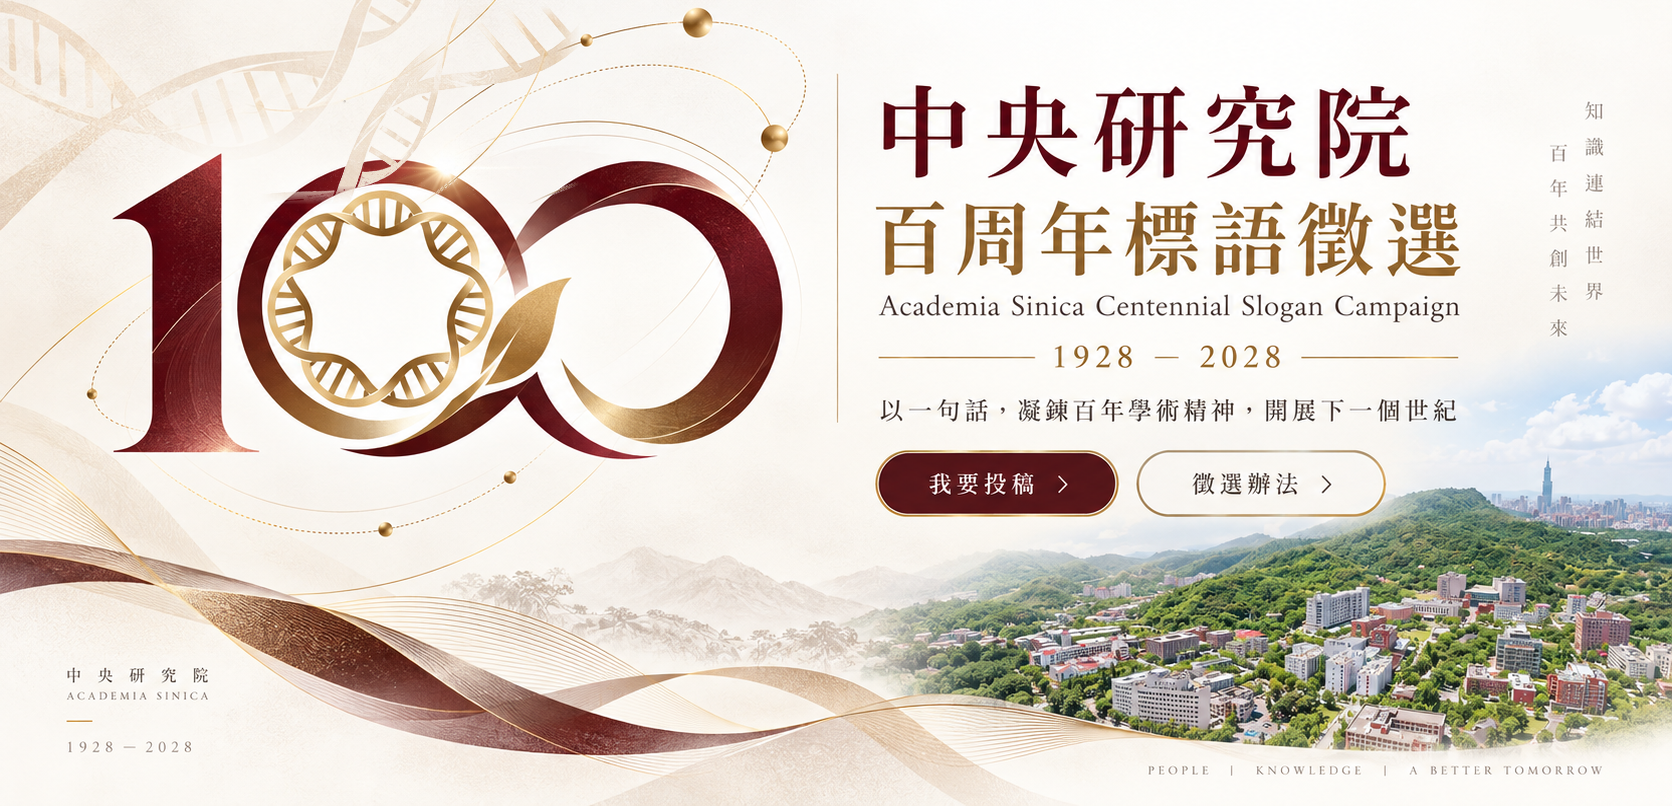
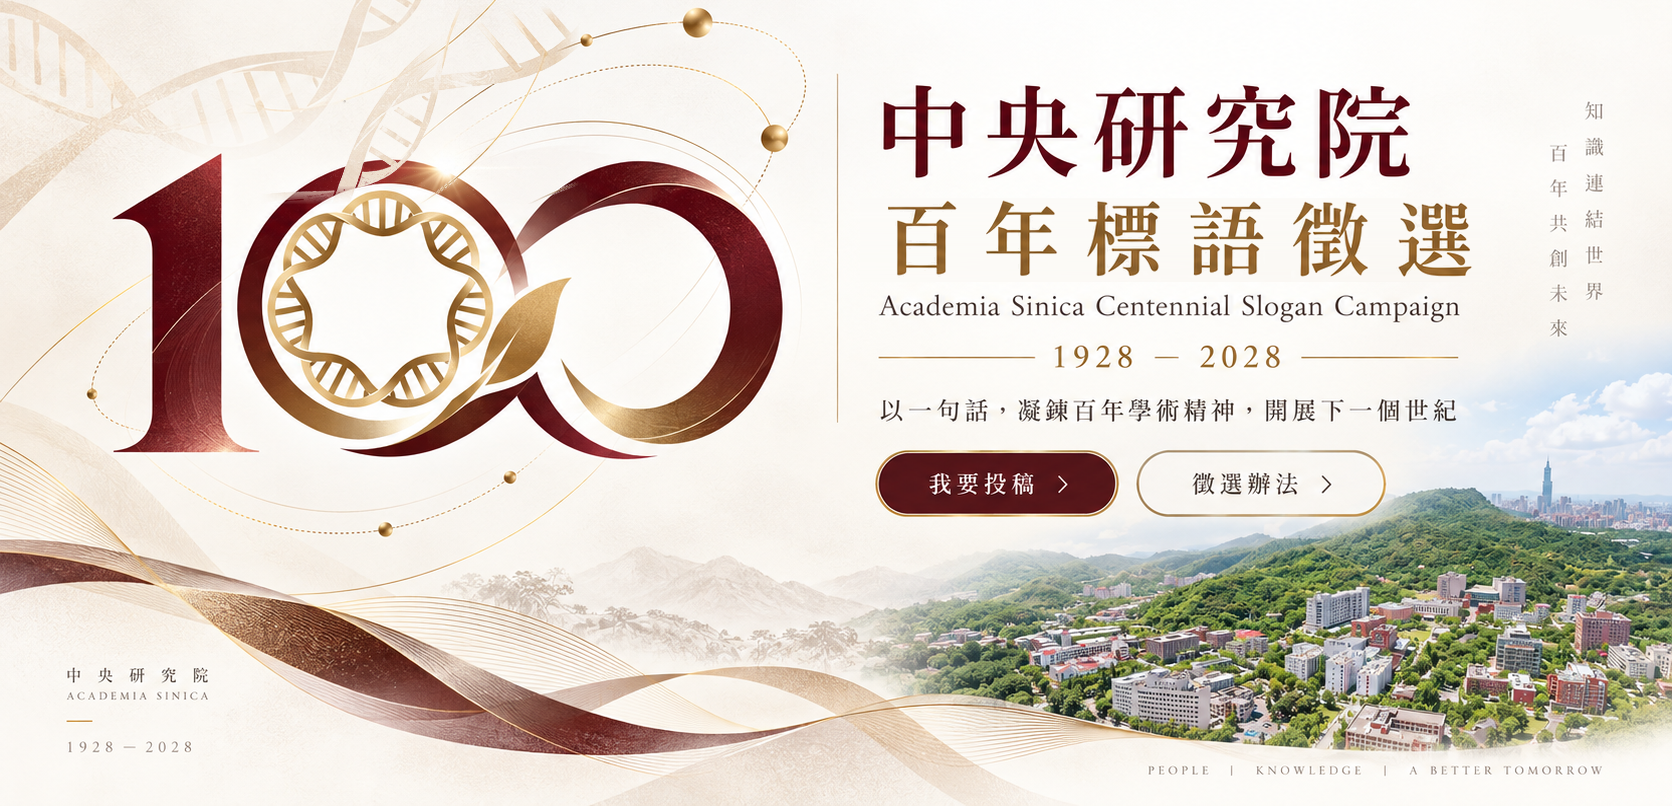
style: 將主視覺標題更新為百年標語徵選

Changed region(s): [[0.5287, 0.2481, 0.9019, 0.3412]]

diff --git a/index.html b/index.html
@@ -1760,7 +1760,7 @@
           <source srcset="assets/hero-desktop.webp" type="image/webp" />
           <img 
             src="assets/hero-desktop.png" 
-            alt="中央研究院百周年標語徵選：以一句話，凝鍊百年學術精神，開展下一個世紀。1928-2028。" 
+            alt="中央研究院百年標語徵選：以一句話，凝鍊百年學術精神，開展下一個世紀。1928-2028。" 
             class="hero-poster-img"
             width="1672"
             height="806"
@@ -1815,7 +1815,7 @@
 
         <div class="mobile-content-wrap">
           <h1 class="mobile-title-main">中央研究院</h1>
-          <div class="mobile-title-sub">百周年標語徵選</div>
+          <div class="mobile-title-sub">百年標語徵選</div>
           <p class="mobile-lead-quote">
             以一句話，凝鍊百年學術精神，開展下一個世紀
           </p>

diff --git a/assets/cms.js b/assets/cms.js
@@ -50,7 +50,7 @@
         en: "assets/campus-aerial.jpg"
       },
       hero_main_title: { zh: "中央研究院", en: "Academia Sinica" },
-      hero_sub_title: { zh: "百周年標語徵選", en: "Centennial Slogan Campaign" },
+      hero_sub_title: { zh: "百年標語徵選", en: "Centennial Slogan Campaign" },
       hero_quote: {
         zh: "以一句話，凝鍊百年學術精神，開展下一個世紀",
         en: "In a single phrase, embody a century of scholarship and inspire the future"
